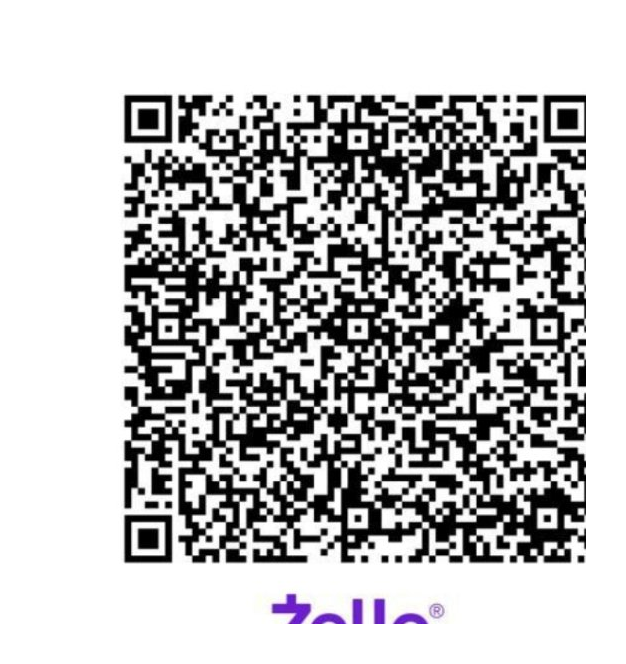
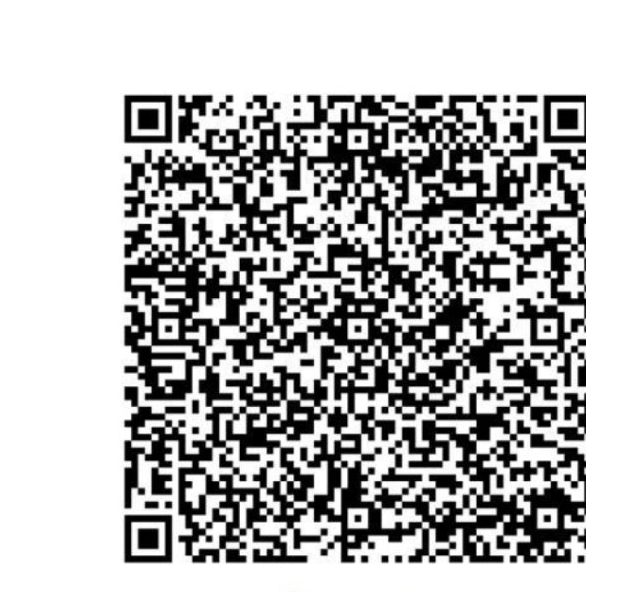
Remove internal notes; fix Zelle QR crop

diff --git a/index.html b/index.html
@@ -158,7 +158,6 @@
     <h2>About the Center</h2>
     <p>The Harrisburg Islamic Center — <em>A Straight Path (HIX)</em> — serves Muslims in Lower Paxton Township and the greater Harrisburg area of Central Pennsylvania. It is a place for the five daily prayers and the Friday Jumu'ah prayer, and a gathering point for the community through Ramadan, the two Eids, and the year round.</p>
     <p style="margin-top:10px">Visitors are welcome. If you are new to the area, new to Islam, or simply curious, please come by or reach us by email — we are glad to meet you.</p>
-    <div class="todo"><strong>To be confirmed:</strong> a short history of the Center and its founding, if the Shura council would like one on this page.</div>
   </section>
 
   <section id="announcements">
@@ -171,7 +170,6 @@
       <div class="card">
         <h3>Ramadan &amp; Eid</h3>
         <p>Taraweeh, iftar, and Eid prayer details will be announced here in season.</p>
-        <div class="todo" style="margin-bottom:0"><strong>To be confirmed</strong> when dates are set.</div>
       </div>
     </div>
   </section>
@@ -194,7 +192,6 @@
         <p class="note">Scan with your bank&rsquo;s app &mdash; Zelle ID: astraightpathhix2026</p>
       </div>
     </div>
-    <div class="todo"><strong>Waiting on:</strong> the Center's donation links (Adeel is getting them) — each button gets its real link the moment they arrive.</div>
   </section>
 
   <section id="contact">
@@ -211,7 +208,6 @@
         <p style="margin-top:8px;font-size:14px;color:var(--muted)">For questions, first-visit access instructions, and community matters.</p>
       </div>
     </div>
-    <div class="todo"><strong>To be confirmed:</strong> a phone number, if the Shura council wants one published.</div>
   </section>
 
 </main>
@@ -220,7 +216,7 @@
   <span class="flogo"><img src="logo-shura-white.png" alt="Harrisburg Islamic Center logo"></span><br>
   Harrisburg Islamic Center · A Straight Path (HIX)<br>
   4813 Jonestown Rd, Suite #105, Harrisburg, PA · <a href="mailto:HarrisburgIslamicCenter@gmail.com">HarrisburgIslamicCenter@gmail.com</a><br>
-  <span style="opacity:.7">Mockup v5 — October 2026</span>
+  <span style="opacity:.7">© 2026 Harrisburg Islamic Center</span>
 </footer>
 
 <script>
